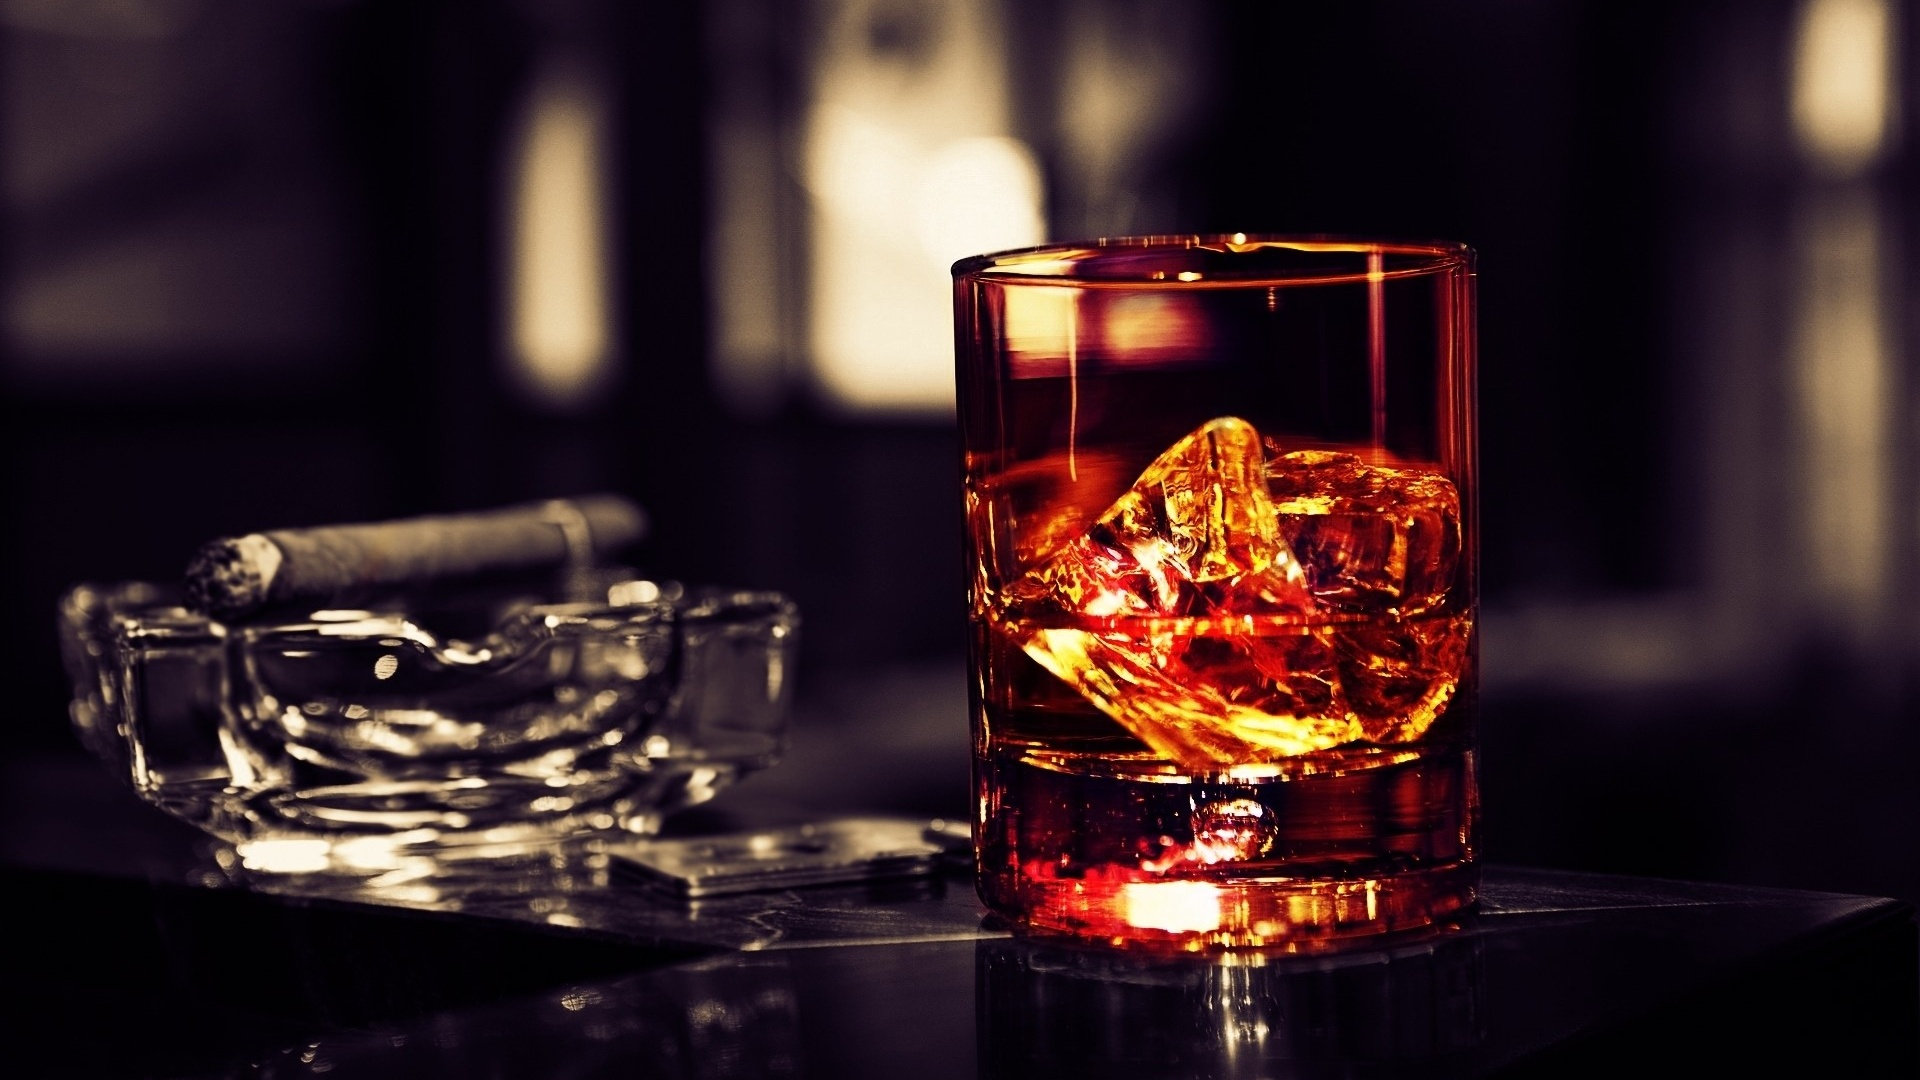
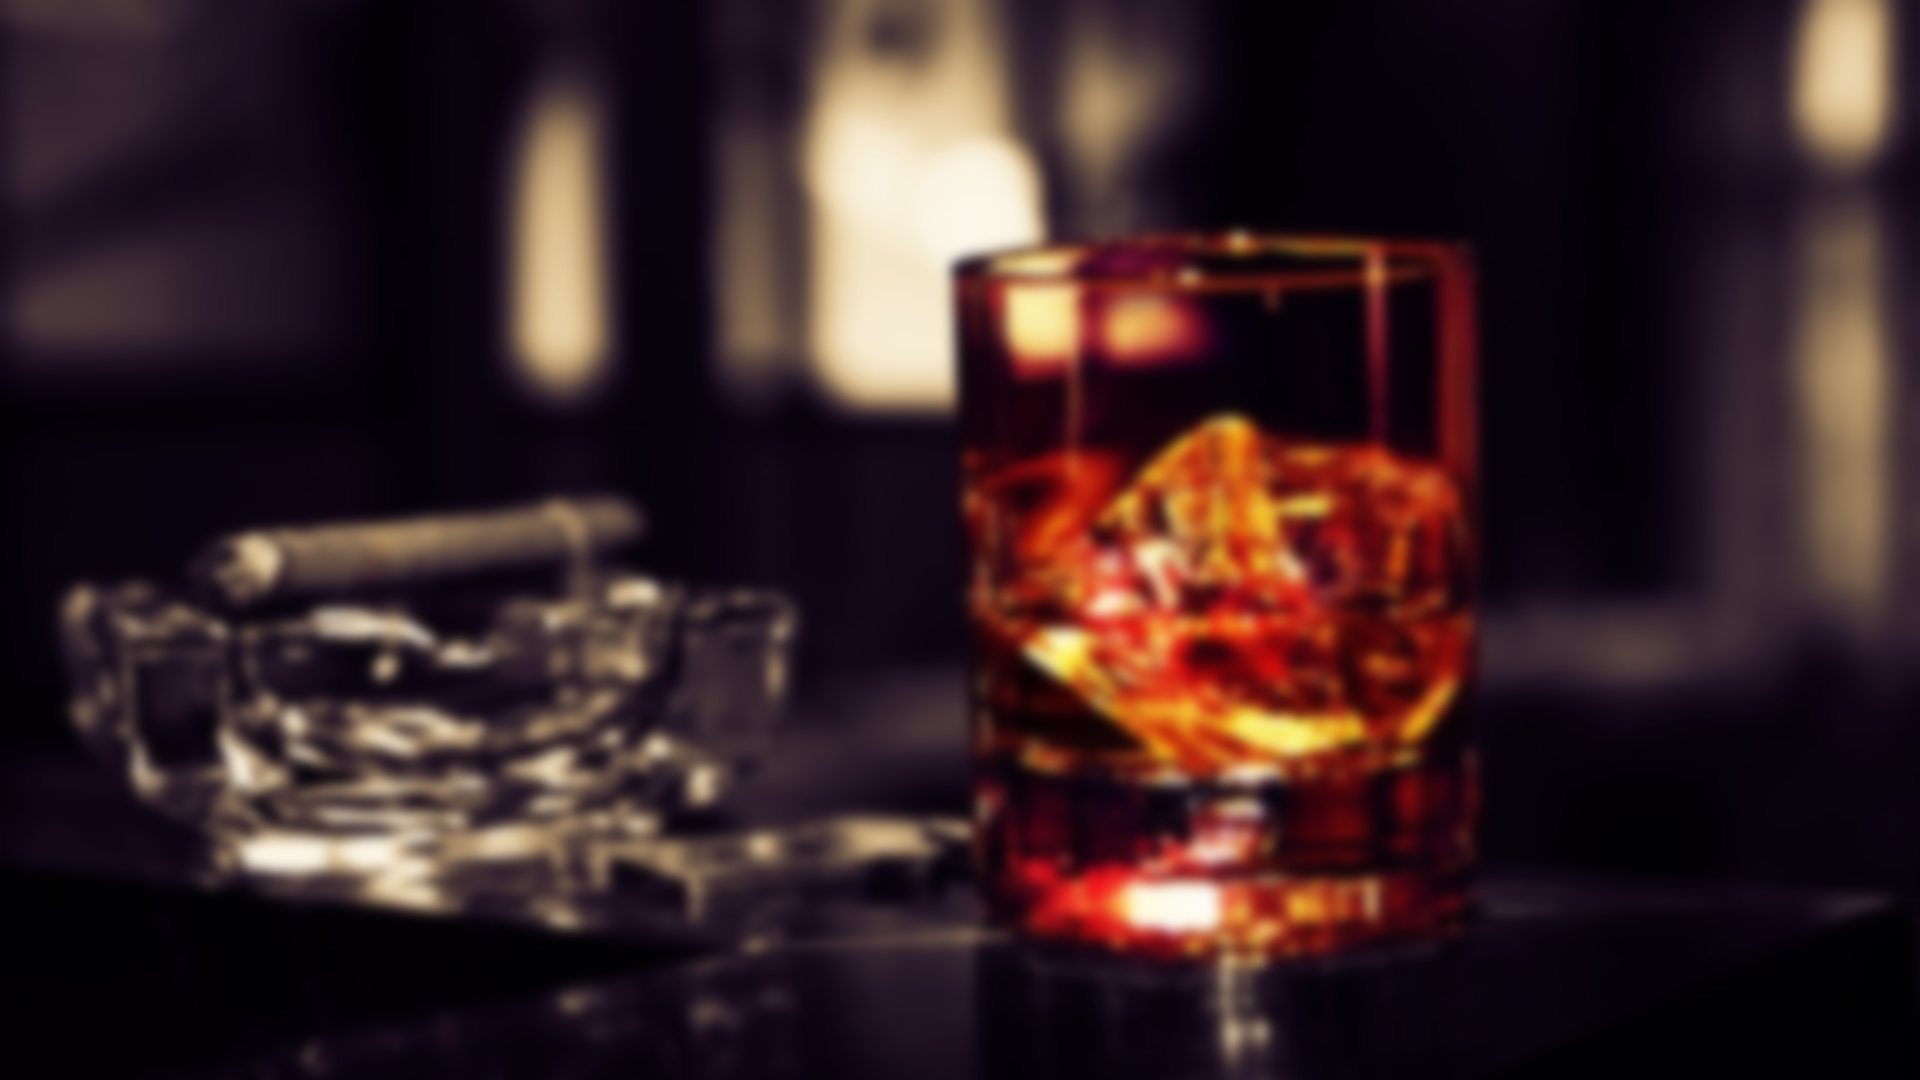
slight tweak to main.  blurred cocktail background.

Changed region(s): [[0.0312, 0.2139, 0.7812, 0.9778], [0.2812, 0.9167, 0.3125, 0.9472]]

diff --git a/calculator/index.html b/calculator/index.html
@@ -10,94 +10,82 @@
 	<link rel="stylesheet" href="index.css">
 </head>
 <body>
-
-	<div class="row">
-
-	</div>
 	<div class="calc_body col-md-4 col-md-offset-4 text-center">
-
-		<div class="row">
-			
-		</div>
 		<div class="row" id="screen">
 			<form name="text">
 				<input type="text" class="screen text-right" name="result" readonly>
 			</form>
 		</div>
 		<div class="row">
-			<button id="aa" type="button" class="btn-lg">
+			<button id="aa" type="button" class="btn">
 				CLR
 			</button>
-			<button id="ab" type="button" class="btn-lg">
+			<button id="ab" type="button" class="btn">
 				SQRT
 			</button>
-			<button id="ac" type="button" class="btn-lg">
+			<button id="ac" type="button" class="btn">
 				%
 			</button>
-			<button id="ad" type="button" class="btn-lg">
+			<button id="ad" type="button" class="btn">
 				/
 			</button>
 		</div>
 		<div class="row">
-			<button id="ba" type="button" class="btn-lg">
+			<button id="ba" type="button" class="btn">
 				7
 			</button>
-			<button id="bb" type="button" class="btn-lg">
+			<button id="bb" type="button" class="btn">
 				8
 			</button>
-			<button id="bc" type="button" class="btn-lg">
+			<button id="bc" type="button" class="btn">
 				9
 			</button>
-			<button id="bd" type="button" class="btn-lg">
+			<button id="bd" type="button" class="btn">
 				x
 			</button>
 		</div>
 		<div class="row">
-			<button id="ca" type="button" class="btn-lg">
+			<button id="ca" type="button" class="btn">
 				4
 			</button>
-			<button id="cb" type="button" class="btn-lg">
+			<button id="cb" type="button" class="btn">
 				5
 			</button>
-			<button id="cc" type="button" class="btn-lg">
+			<button id="cc" type="button" class="btn">
 				6
 			</button>
-			<button id="cd" type="button" class="btn-lg">
+			<button id="cd" type="button" class="btn">
 				-
 			</button>
 		</div>
 		<div class="row">
-			<button id="da" type="button" class="btn-lg">
+			<button id="da" type="button" class="btn">
 				1
 			</button>
-			<button id="db" type="button" class="btn-lg">
+			<button id="db" type="button" class="btn">
 				2
 			</button>
-			<button id="dc" type="button" class="btn-lg">
+			<button id="dc" type="button" class="btn">
 				3
 			</button>
-			<button id="dd" type="button" class="btn-lg">
+			<button id="dd" type="button" class="btn">
 				+
 			</button>
 		</div>
 		<div class="row">
-			<button id="ea" type="button" class="btn-lg">
+			<button id="ea" type="button" class="btn">
 				0
 			</button>
-			<button id="eb" type="button" class="btn-lg">
+			<button id="eb" type="button" class="btn">
 				.
 			</button>
-			<button id="ec" type="button" class="btn-lg">
+			<button id="ec" type="button" class="btn">
 				=
 			</button>
-			<button id="hide" type="button" class="btn-lg">
-				
+			<button id="hide" type="button" class="btn">
+
 			</button>
 		</div>
-		<div class="row">
-		</div>
-
-
 	</div>
 
 	<!-- Scripts -->
@@ -105,7 +93,3 @@
 
 </body>
 </html>
-
-
-
-

diff --git a/index.html b/index.html
@@ -31,15 +31,23 @@
 				</div>
 			</div>
 		</nav>
-		<div id="profile" class="jumbotron">
-			<div class="row">
-				<div class="container center" height="500px">
-					<h1>My Portfolio</h1>
-					<p>Hardware design engineer looking to transition into software or firmware position</p>
-					<img src="wes_bnw.jpg" class="img-circle image-responsive self-photo">
+		<!--<div class="container">-->
+			<div id="profile" class="jumbotron" style="padding: 10%">
+				<div class="row">
+					<!--<div class="container center" height="500px">-->
+					<div class="col-md-9 center" style="border-style:solid border-color:black border:2px">
+						<br>
+						<h1>My Portfolio</h1>
+						<p>Hardware design engineer looking to transition into software or firmware position</p>
+					</div>
+					<div class="col-md-3 center" style="border-style:solid border-color:black border:2px">
+						<br>
+						<img src="wes_bnw.jpg" class="img-responsive img-circle">
+					</div>
+					<!--</div>-->
 				</div>
 			</div>
-		</div>
+		<!--</div>-->
 		<div id="portfolio" class="fluid-container portfolio_rows" height="500px">
 			<div class="row">
 				<div class="col-md-4">

diff --git a/calculator/index.css b/calculator/index.css
@@ -4,15 +4,12 @@ body {
 }
 .calc_body {
 	background: #9e453a;
-	/*padding: 0px;*/
-	/*margin: 0px;*/
 	border-radius: 100px;
+	margin-top: 5%;
+	padding-top: 5%;
 }
 .screen {
-	height: 75px;
-	width: 450px;
-	/*background: #000000;*/
-	/*margin: 50px 25px;*/
+	height: 50px;
 	border-radius: 15px;
 }
 .calc_border {
@@ -29,22 +26,12 @@ body {
 	height: 100px;
 }
 button {
-	/*background: #f0a202;*/
+	justify-content: center;
 	height: 50px;
-	width: 100px;
-	margin: 10px 4px;
+	width: 60px;
 	box-shadow: inset 1px 1px 50px  #ffab00;
 }
 
 #hide {
 	visibility: hidden;
 }
-
-/*button {
-  height: 50px;
-  width: 50px;
-  margin: 10px 4px;
-  box-shadow: inset 1px 1px 50px  #0066FF;
-  border: none !important;
-  }*/
-

diff --git a/calculator/index.js b/calculator/index.js
@@ -1,8 +1,8 @@
 
 var btn_aa = document.querySelector('#aa');
-var btn_ab = document.querySelector('#aa');
-var btn_ac = document.querySelector('#aa');
-var btn_ad = document.querySelector('#aa');
+var btn_ab = document.querySelector('#ab');
+var btn_ac = document.querySelector('#ac');
+var btn_ad = document.querySelector('#ad');
 
 var btn_ba = document.querySelector('#ba');
 var btn_bb = document.querySelector('#bb');
@@ -26,8 +26,5 @@ var btn_ec = document.querySelector('#ec');
 btn_aa.addEventListener('click', btnPress);
 
 function btnPress(){
-		if( btn.value === 'aa' ){
 					console.log("made it");
-					    // window.open("quote_gen.html");
-							    }
-}
+				}

diff --git a/portfolio.css b/portfolio.css
@@ -1,5 +1,3 @@
-<style>
-
 .navbar {
 	margin-bottom: 0;
 	margin-radius: 0;
@@ -20,12 +18,10 @@ footer {
 	background-color: #f2f2f2;
 	padding: 25px;
 }
-.self-photo {
-				height: 250px;
-	@media only screen and (min-device-width: 500 px){
-		.self-photo {
-			height: 50px;
-		}
-	}
+
+
+.jumbotron .div{
+  position: absolute;
+  top: 50%;
+  transform: translateY(-50%);
 }
-</style>
